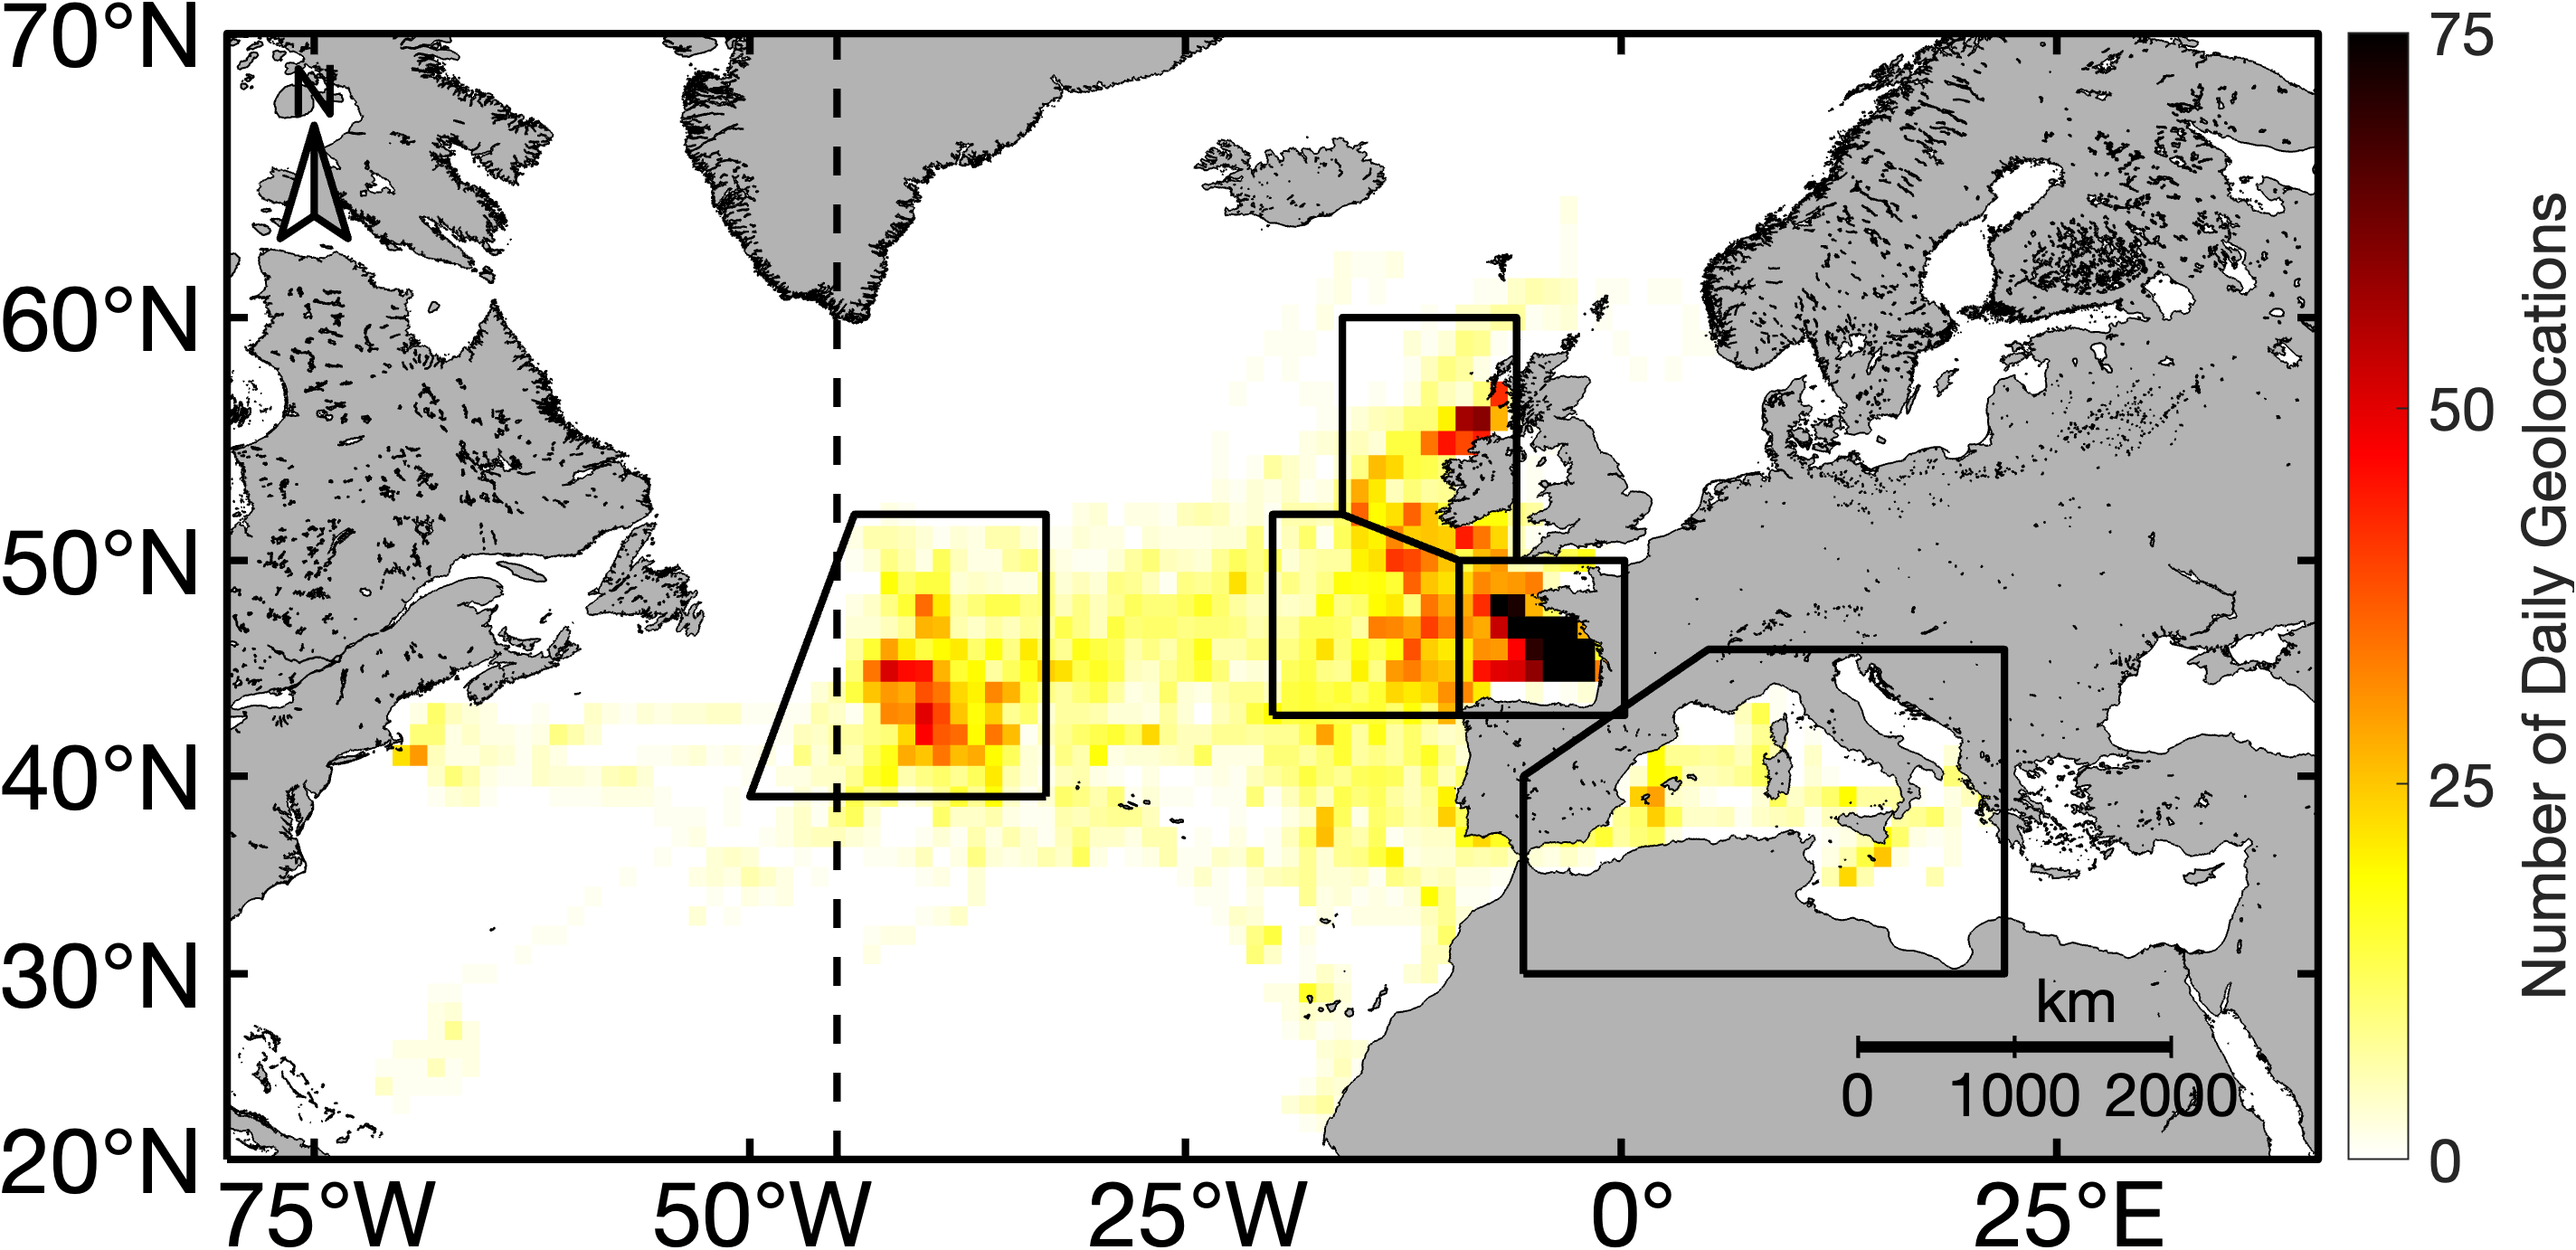
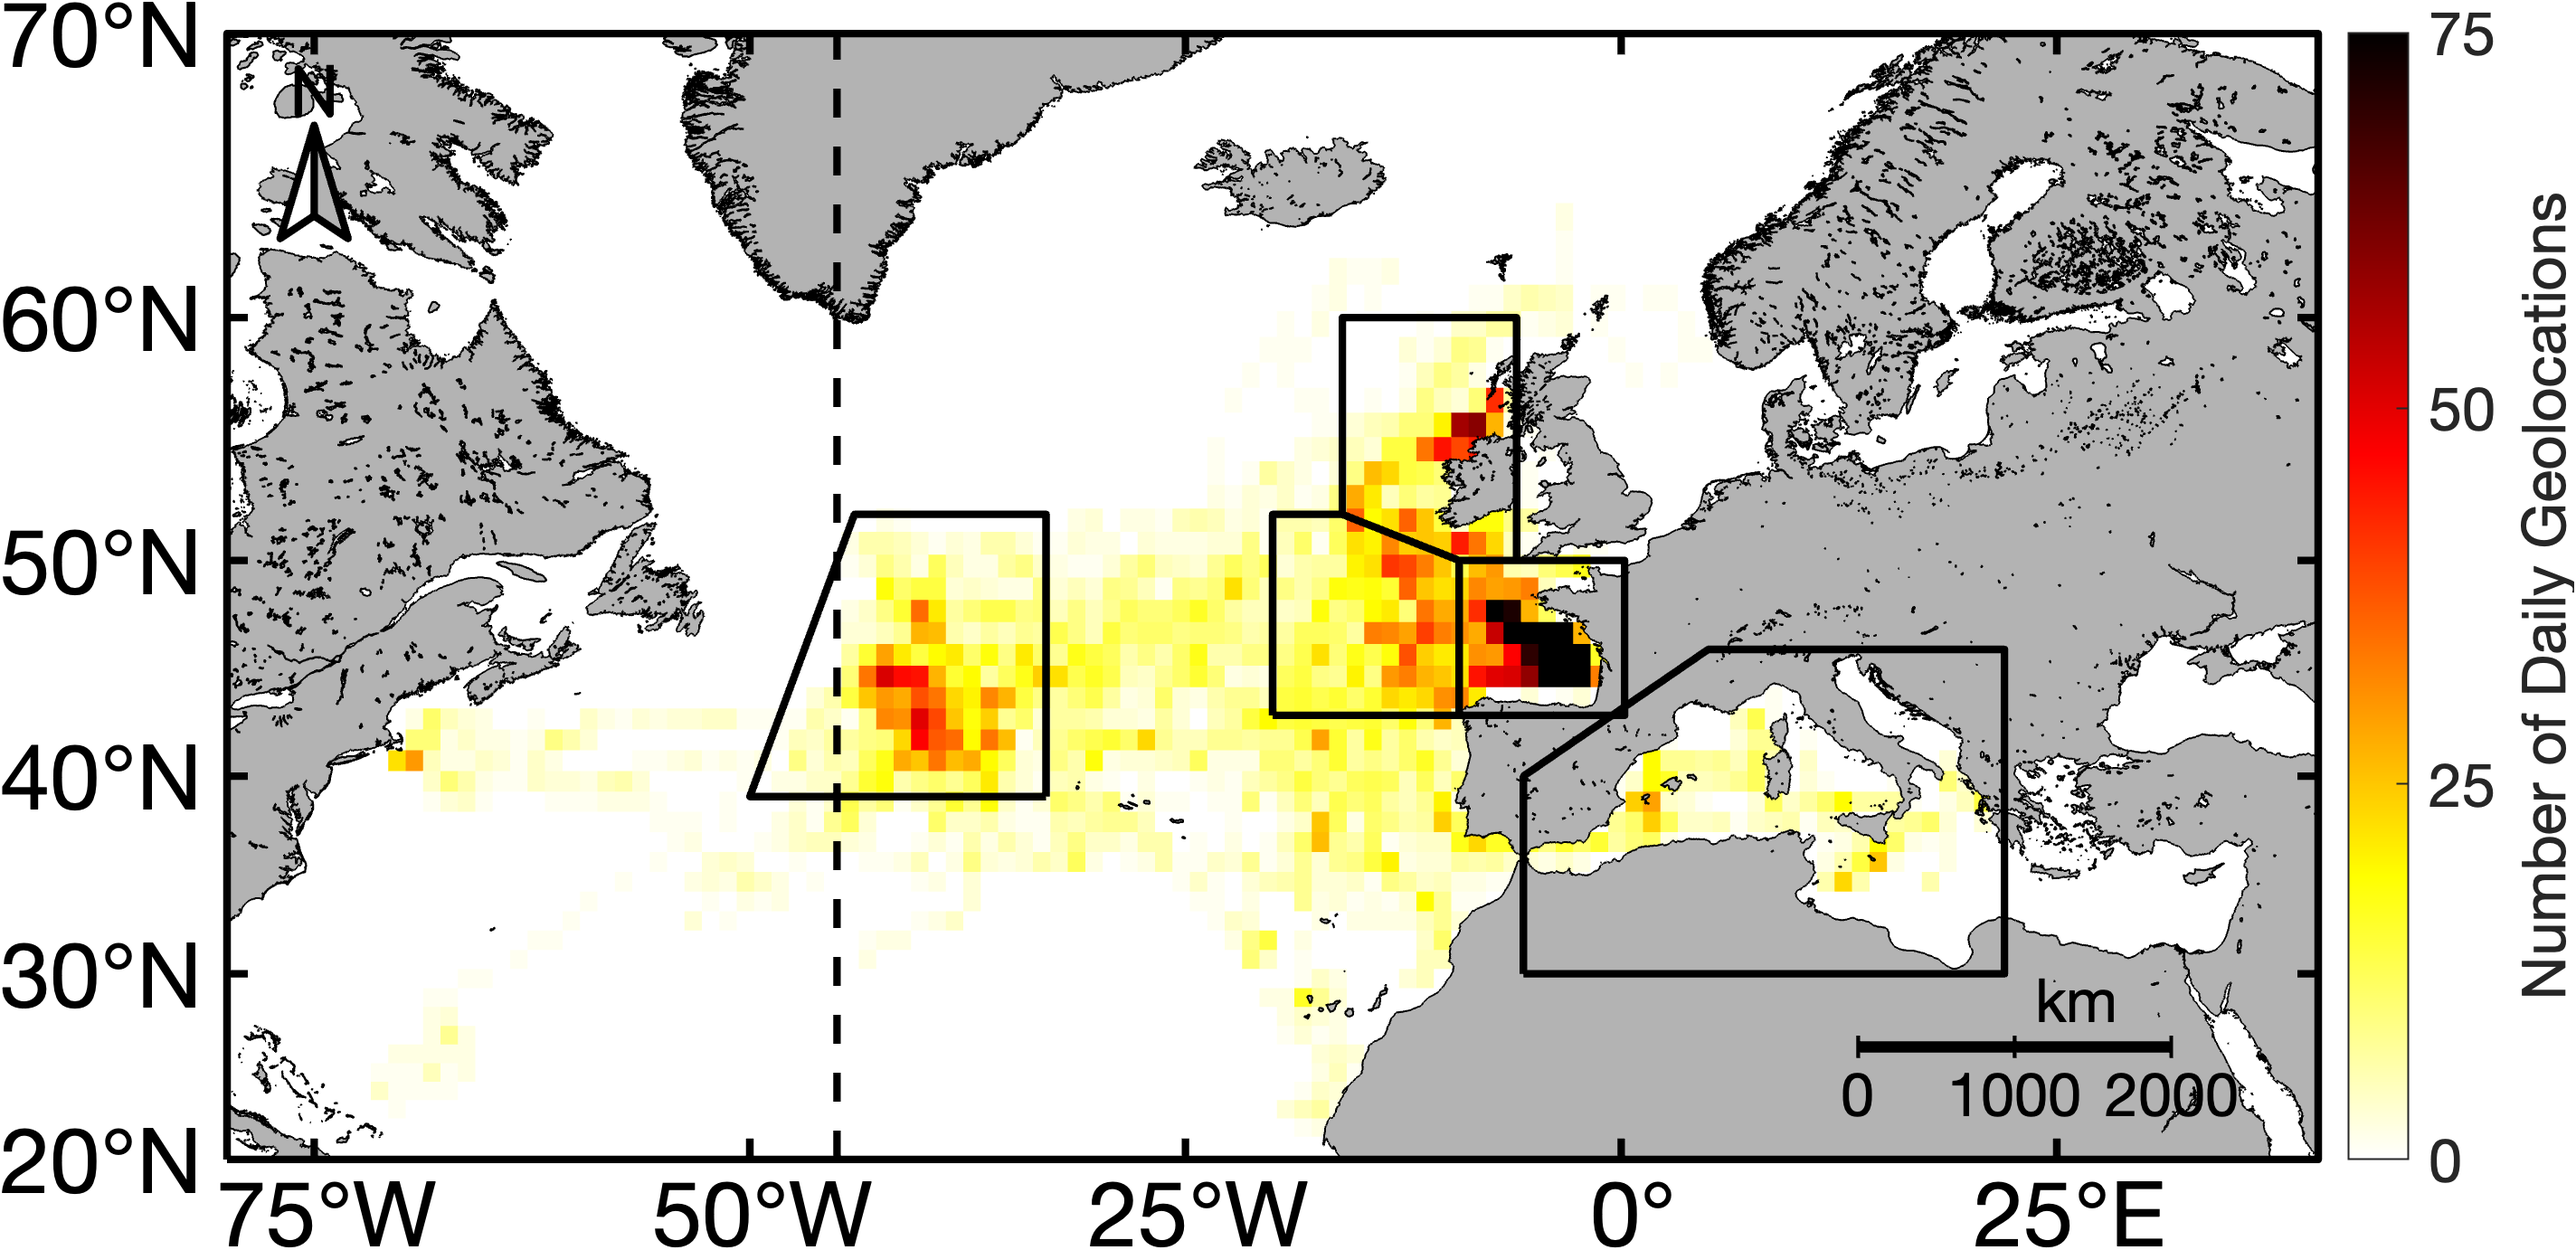
update

Changed region(s): [[0.1562, 0.2178, 0.7812, 0.9023], [0.1562, 0.809, 0.1875, 0.8712]]

diff --git a/code/matlab/sub_functions/figures/figure_4.m b/code/matlab/sub_functions/figures/figure_4.m
@@ -1,5 +1,6 @@
 %% figure_4
-% Sub-function of Irish_Tuna.m; time in mesopelagic (> 200 m)
+% Sub-function of Irish_Tuna.m; time in mesopelagic (> 200 m) bar graph,
+% vs. ADT and map.
 
 %% Mean % Time in Mesopelagic for Each Tag
 
@@ -12,7 +13,7 @@ for i = 1:length(toppID)
     end
 end
 
-%% Plot
+%% Figure 4a: Bar graph per hotspot.
 
 figure() 
 
@@ -31,10 +32,13 @@ ylabel('Mean % of Time in Mesopelagic','FontSize',22);
 xlabel('Hotspot','FontSize',22);
 
 grid on
+grid minor
 
 cd([fdir 'figures'])
-exportgraphics(gcf,'figure_4.png','Resolution',300);
+exportgraphics(gcf,'figure_4a.png','Resolution',300);
 
-% close gcf
+close gcf
 
 clear b
+
+%%

diff --git a/code/matlab/sub_functions/figures/figure_8.m b/code/matlab/sub_functions/figures/figure_8.m
@@ -16,7 +16,7 @@ binned.LATedges = 20:1:70;
 
 [binned.N,binned.LONmid,binned.LATmid] = twodhist(META.Longitude,META.Latitude,binned.LONedges,binned.LATedges);
 
-m_pcolor(binned.LONmid,binned.LATmid,binned.N); shading flat;
+m_pcolor(binned.LONmid-0.25,binned.LATmid-0.25,binned.N); shading flat;
 
 hold on
 
@@ -205,7 +205,7 @@ binned.LATedges = 20:1:70;
 
 [binned.mz,binned.LONmid,binned.LATmid,~,binned.stdz] = twodstats(META.Longitude,META.Latitude,META.MaxDepth,binned.LONedges,binned.LATedges);
 
-m_pcolor(binned.LONmid,binned.LATmid,binned.mz);
+m_pcolor(binned.LONmid-0.25,binned.LATmid-0.25,binned.mz);
 
 hold on
 

diff --git a/code/matlab/sub_functions/figures/figure_1b.m b/code/matlab/sub_functions/figures/figure_1b.m
@@ -17,7 +17,7 @@ binned.LATedges = 20:1:70;
 
 [binned.N,binned.LONmid,binned.LATmid] = twodhist(META.Longitude,META.Latitude,binned.LONedges,binned.LATedges);
 
-m_pcolor(binned.LONmid,binned.LATmid,binned.N);
+m_pcolor(binned.LONmid-0.25,binned.LATmid-0.25,binned.N);
 
 hold on
 
